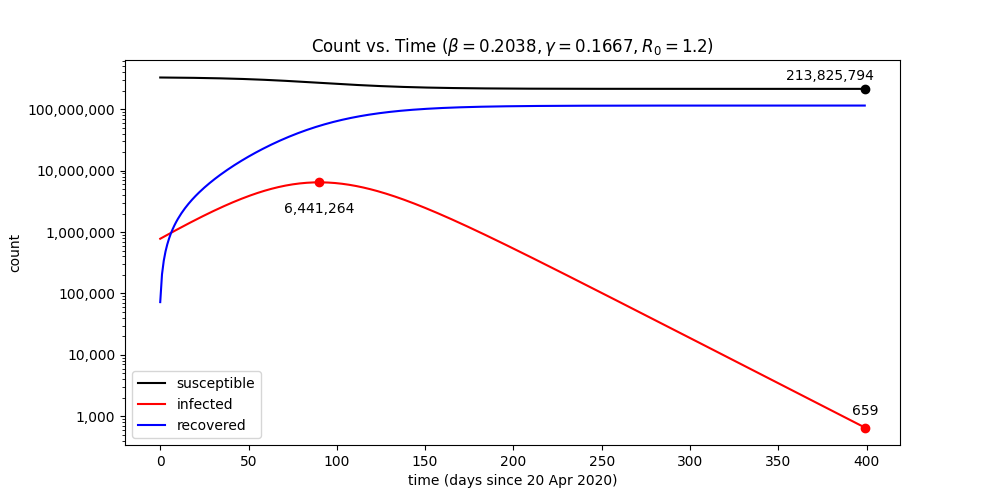
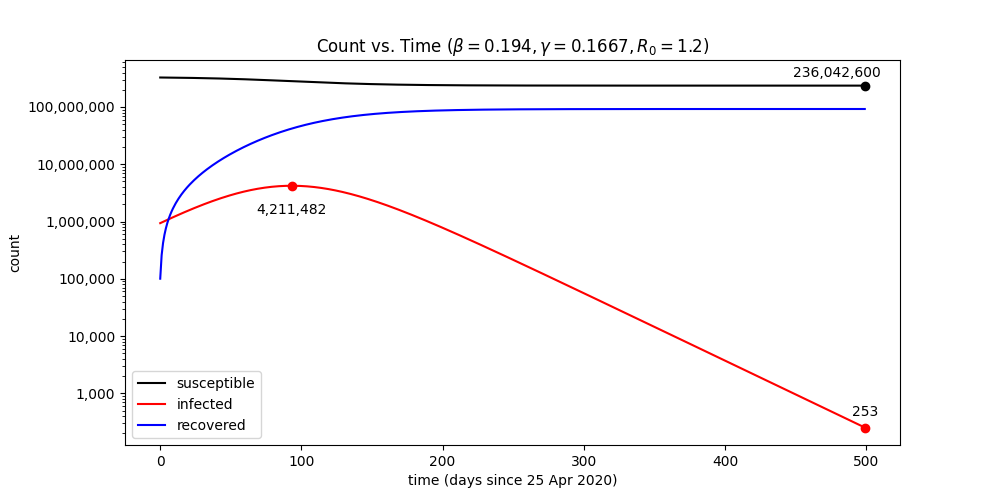
Update start date to 2020-04-25

diff --git a/model.py b/model.py
@@ -50,7 +50,7 @@ def main():
 
     # Projection
     project(
-        population=total_us_population, initial=initial, days=400, infection_rate=estimated_infection_rate,
+        population=total_us_population, initial=initial, days=500, infection_rate=estimated_infection_rate,
         recovery_rate=recovery_rate, start_date=start_date
     )
 
